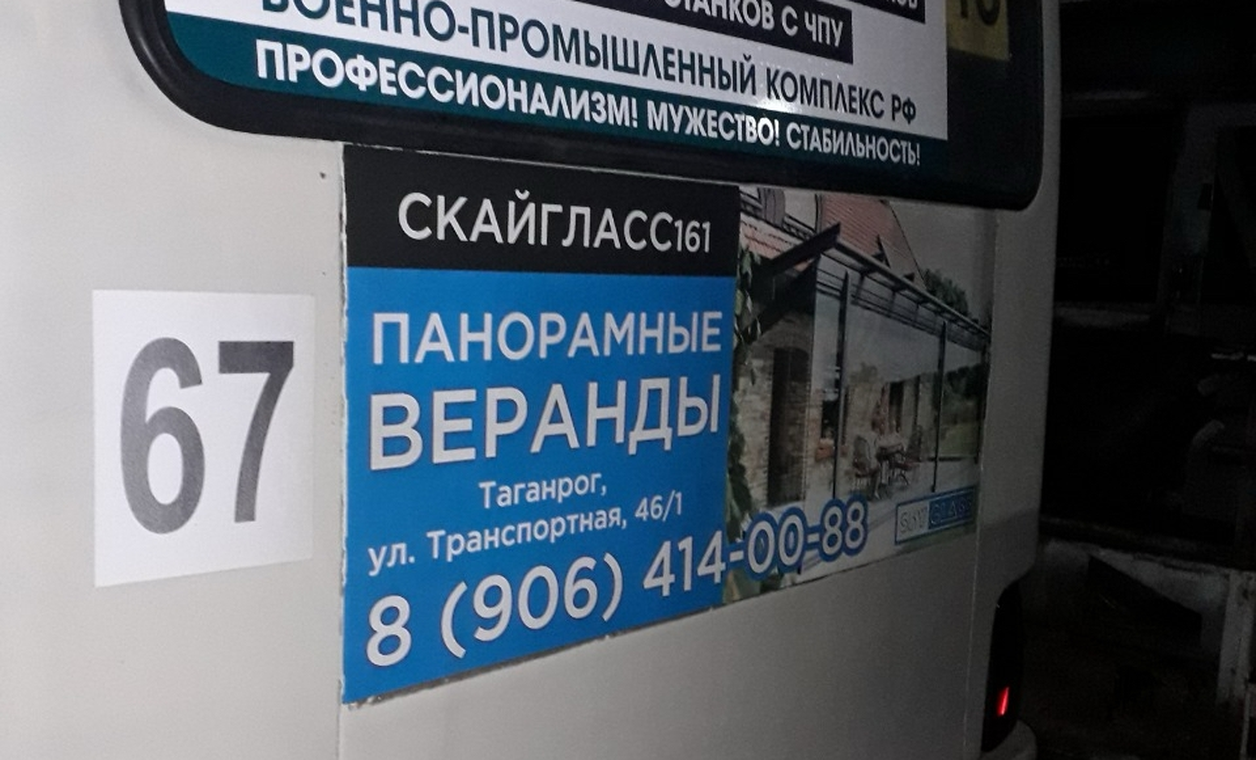
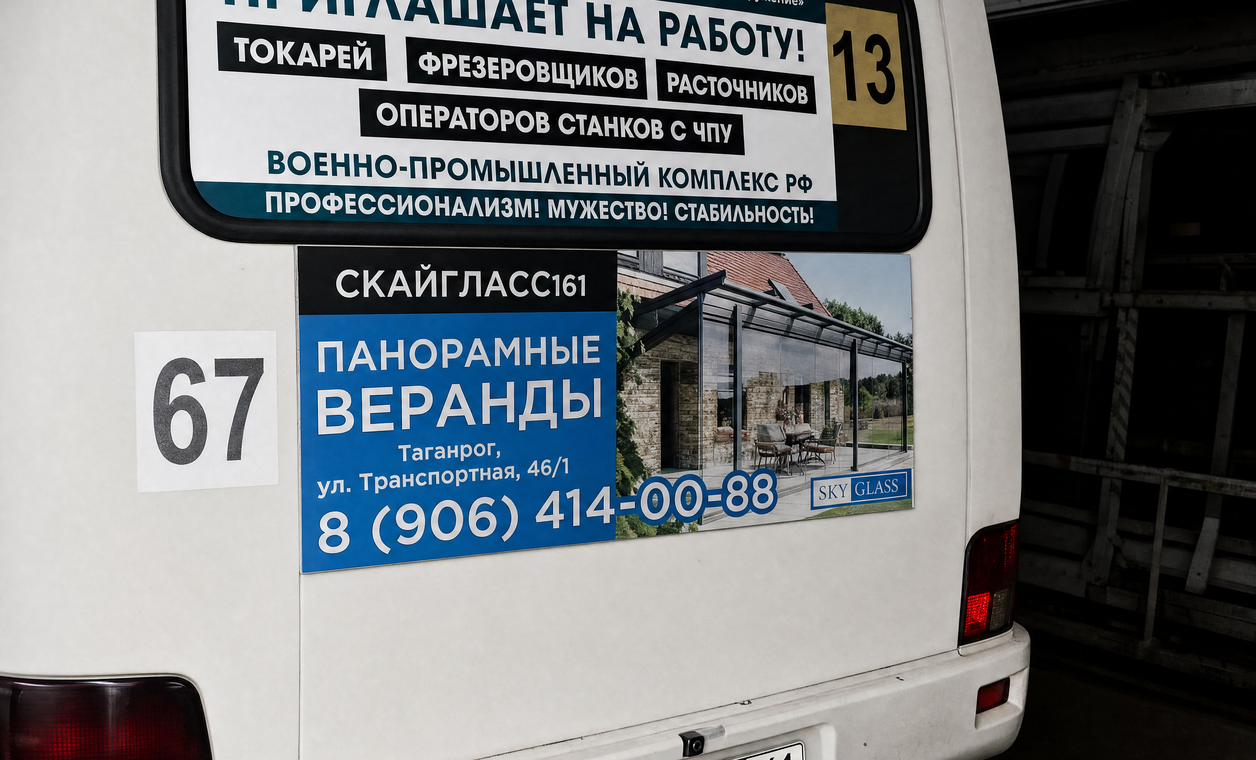
Все фото заменены на обработанные версии высокого разрешения
Герой:
- 1-й кадр — «Купертино» 3/4 сзади (5504×3072 вместо сжатых 1280×960)
- 2-й кадр — Fix Price №13 вместо autodoc

Блок статистики — «Купертино» у синего забора (4608×3712)

Карточки услуг и шапки страниц услуг:
- Бортовая — автобус «Таганрог» с рекламой CERTINA
- Наклейки — задняя часть маршрутки со СКАЙГЛАСС при дневном свете (был тёмный ночной кадр)
- Листовки — плакаты над окнами в салоне
- Спинки — чехлы с рекламой «Победа»

Все кадры пересобраны из оригиналов: герой 1920×1080, карточки 1256×760,
шапки услуг 1600×700, webp качество 92

Claude-Session: https://claude.ai/code/session_01Mm7GxZ9DwCjeE755AA1ABF

diff --git a/index.html b/index.html
@@ -88,7 +88,7 @@
 <section class="hero" id="top">
   <div class="hero__slides" data-hero-slider>
     <img class="hero__bg is-active" src="assets/hero-city.webp" alt="Городской автобус с полной обклейкой на маршруте" fetchpriority="high">
-    <img class="hero__bg" src="assets/hero-routes.webp" alt="Городской автобус с бортовой рекламой на маршруте" loading="lazy">
+    <img class="hero__bg" src="assets/hero-routes.webp" alt="Маршрутный автобус с рекламой Fix Price на городском маршруте" loading="lazy">
     <img class="hero__bg" src="assets/hero-3.webp" alt="Реклама на спинках сидений в салоне" loading="lazy">
     <img class="hero__bg" src="assets/hero-5.webp" alt="Реклама в салоне автобуса" loading="lazy">
   </div>

diff --git a/service-bortovaya.html b/service-bortovaya.html
@@ -72,7 +72,7 @@
         <h1 class="svc-detail__title">Широкоформатная бортовая реклама</h1>
       </div>
       <div class="svc-detail__hero-img">
-        <img src="assets/hero-4.webp" alt="Широкоформатная бортовая реклама" fetchpriority="high">
+        <img src="assets/svc-bortovaya-wide.webp" alt="Широкоформатная бортовая реклама на городском автобусе" fetchpriority="high">
       </div>
 
       <div class="svc-prices">

diff --git a/service-nakleyki.html b/service-nakleyki.html
@@ -72,7 +72,7 @@
         <h1 class="svc-detail__title">Рекламная наклейка на транспорте</h1>
       </div>
       <div class="svc-detail__hero-img">
-        <img src="assets/hero-1.webp" alt="Рекламная наклейка на транспорте" fetchpriority="high">
+        <img src="assets/svc-nakleyki-wide.webp" alt="Рекламные наклейки на задней части маршрутки" fetchpriority="high">
       </div>
 
       <div class="svc-prices">
